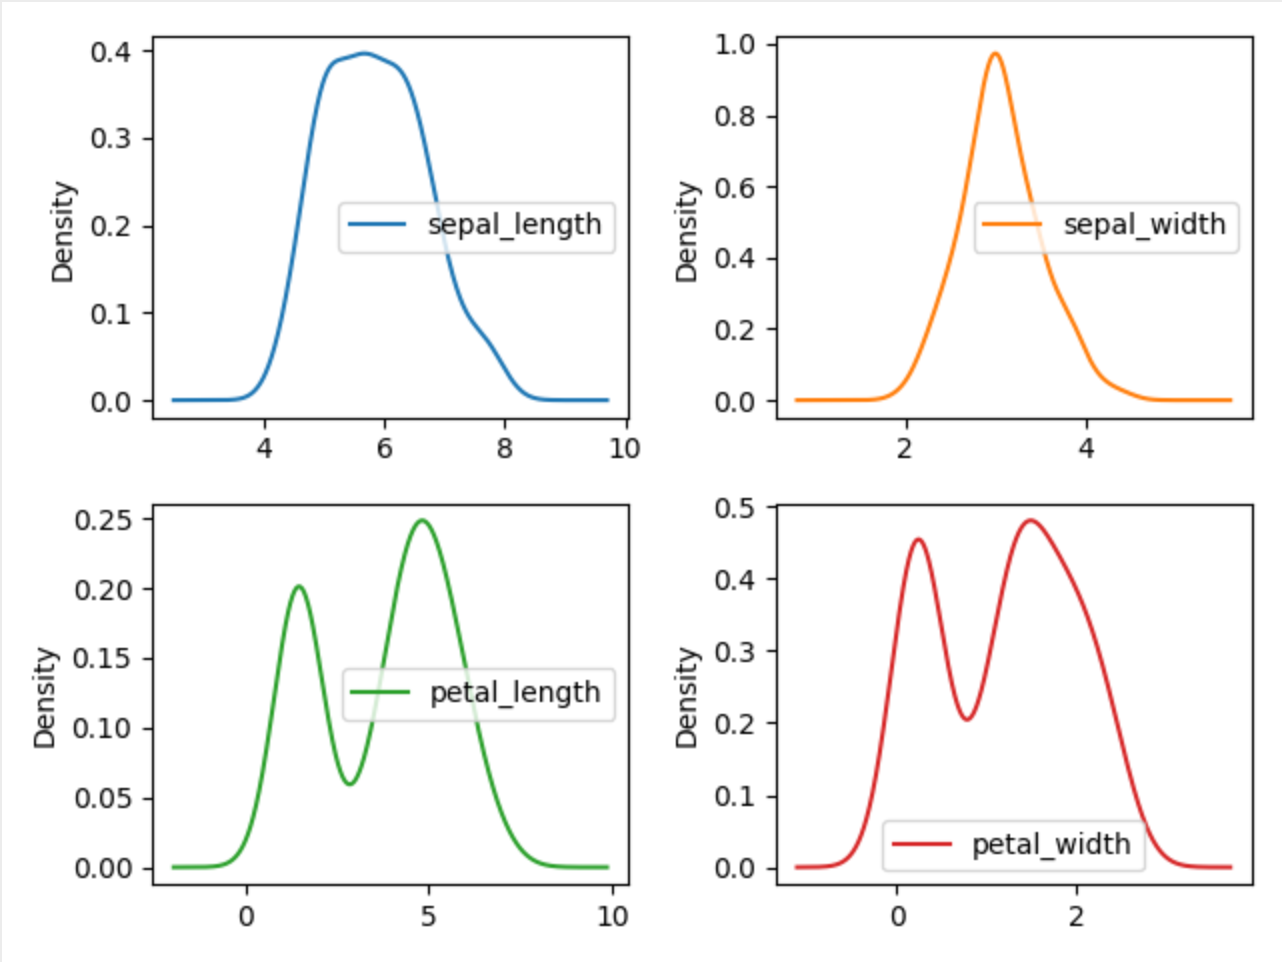
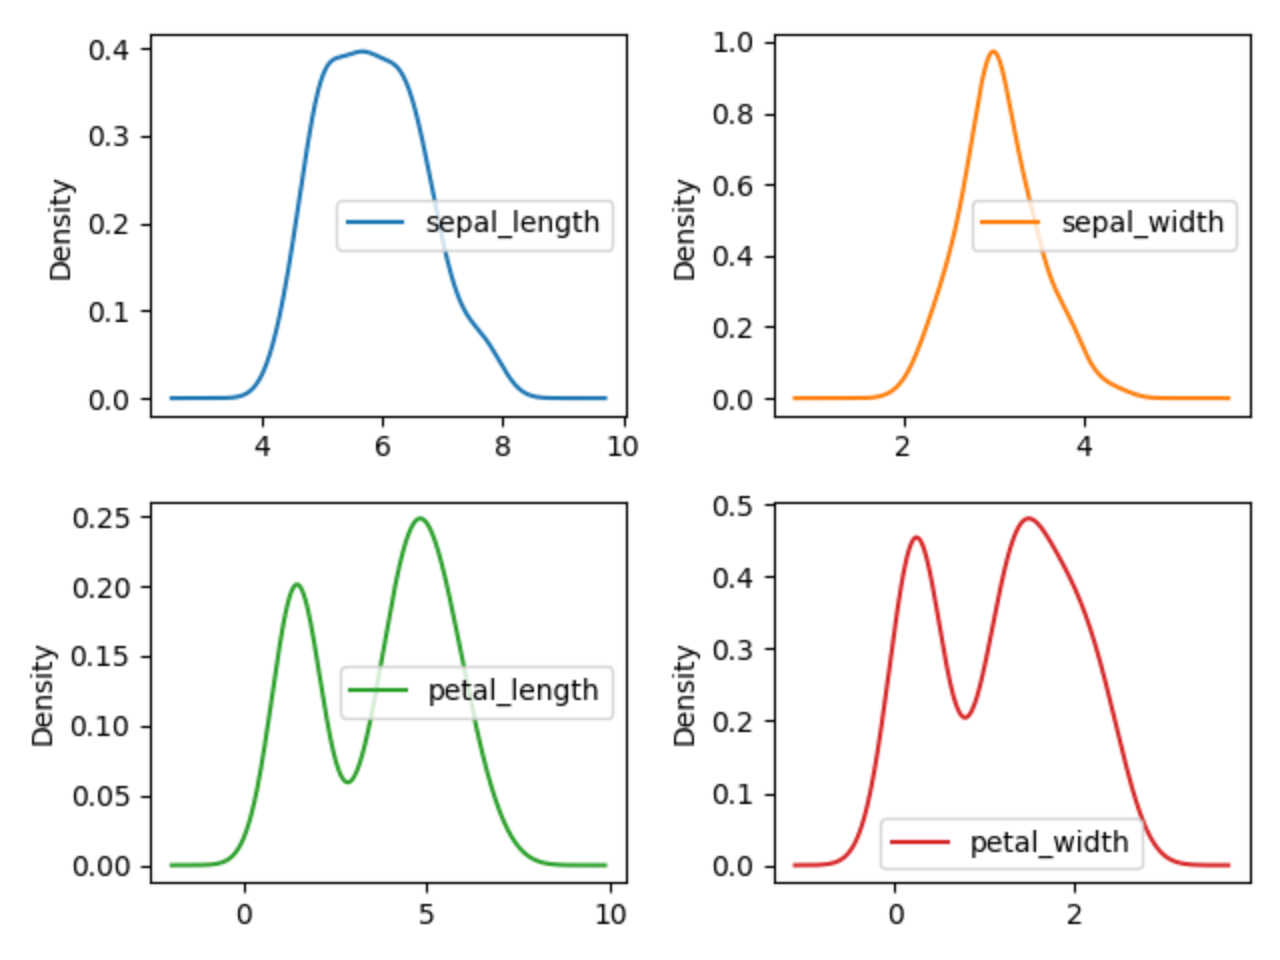
Intermediate: CSV #time 10m

diff --git a/serialization/csv.rst b/serialization/csv.rst
@@ -263,7 +263,7 @@ Hist
     plt.show()
 
 .. figure:: img/matplotlib-pd-hist.png
-    :scale: 100%
+    :scale: 40%
     :align: center
 
     Visualization using hist
@@ -284,7 +284,7 @@ Density
     plt.show()
 
 .. figure:: img/matplotlib-pd-density.png
-    :scale: 100%
+    :scale: 40%
     :align: center
 
     Visualization using density
@@ -305,7 +305,7 @@ Box
     plt.show()
 
 .. figure:: img/matplotlib-pd-box.png
-    :scale: 100%
+    :scale: 40%
     :align: center
 
     Visualization using density
@@ -330,7 +330,7 @@ Scatter matrix
     plt.show()
 
 .. figure:: img/matplotlib-pd-scatter-matrix.png
-    :scale: 100%
+    :scale: 40%
     :align: center
 
     Visualization using density
